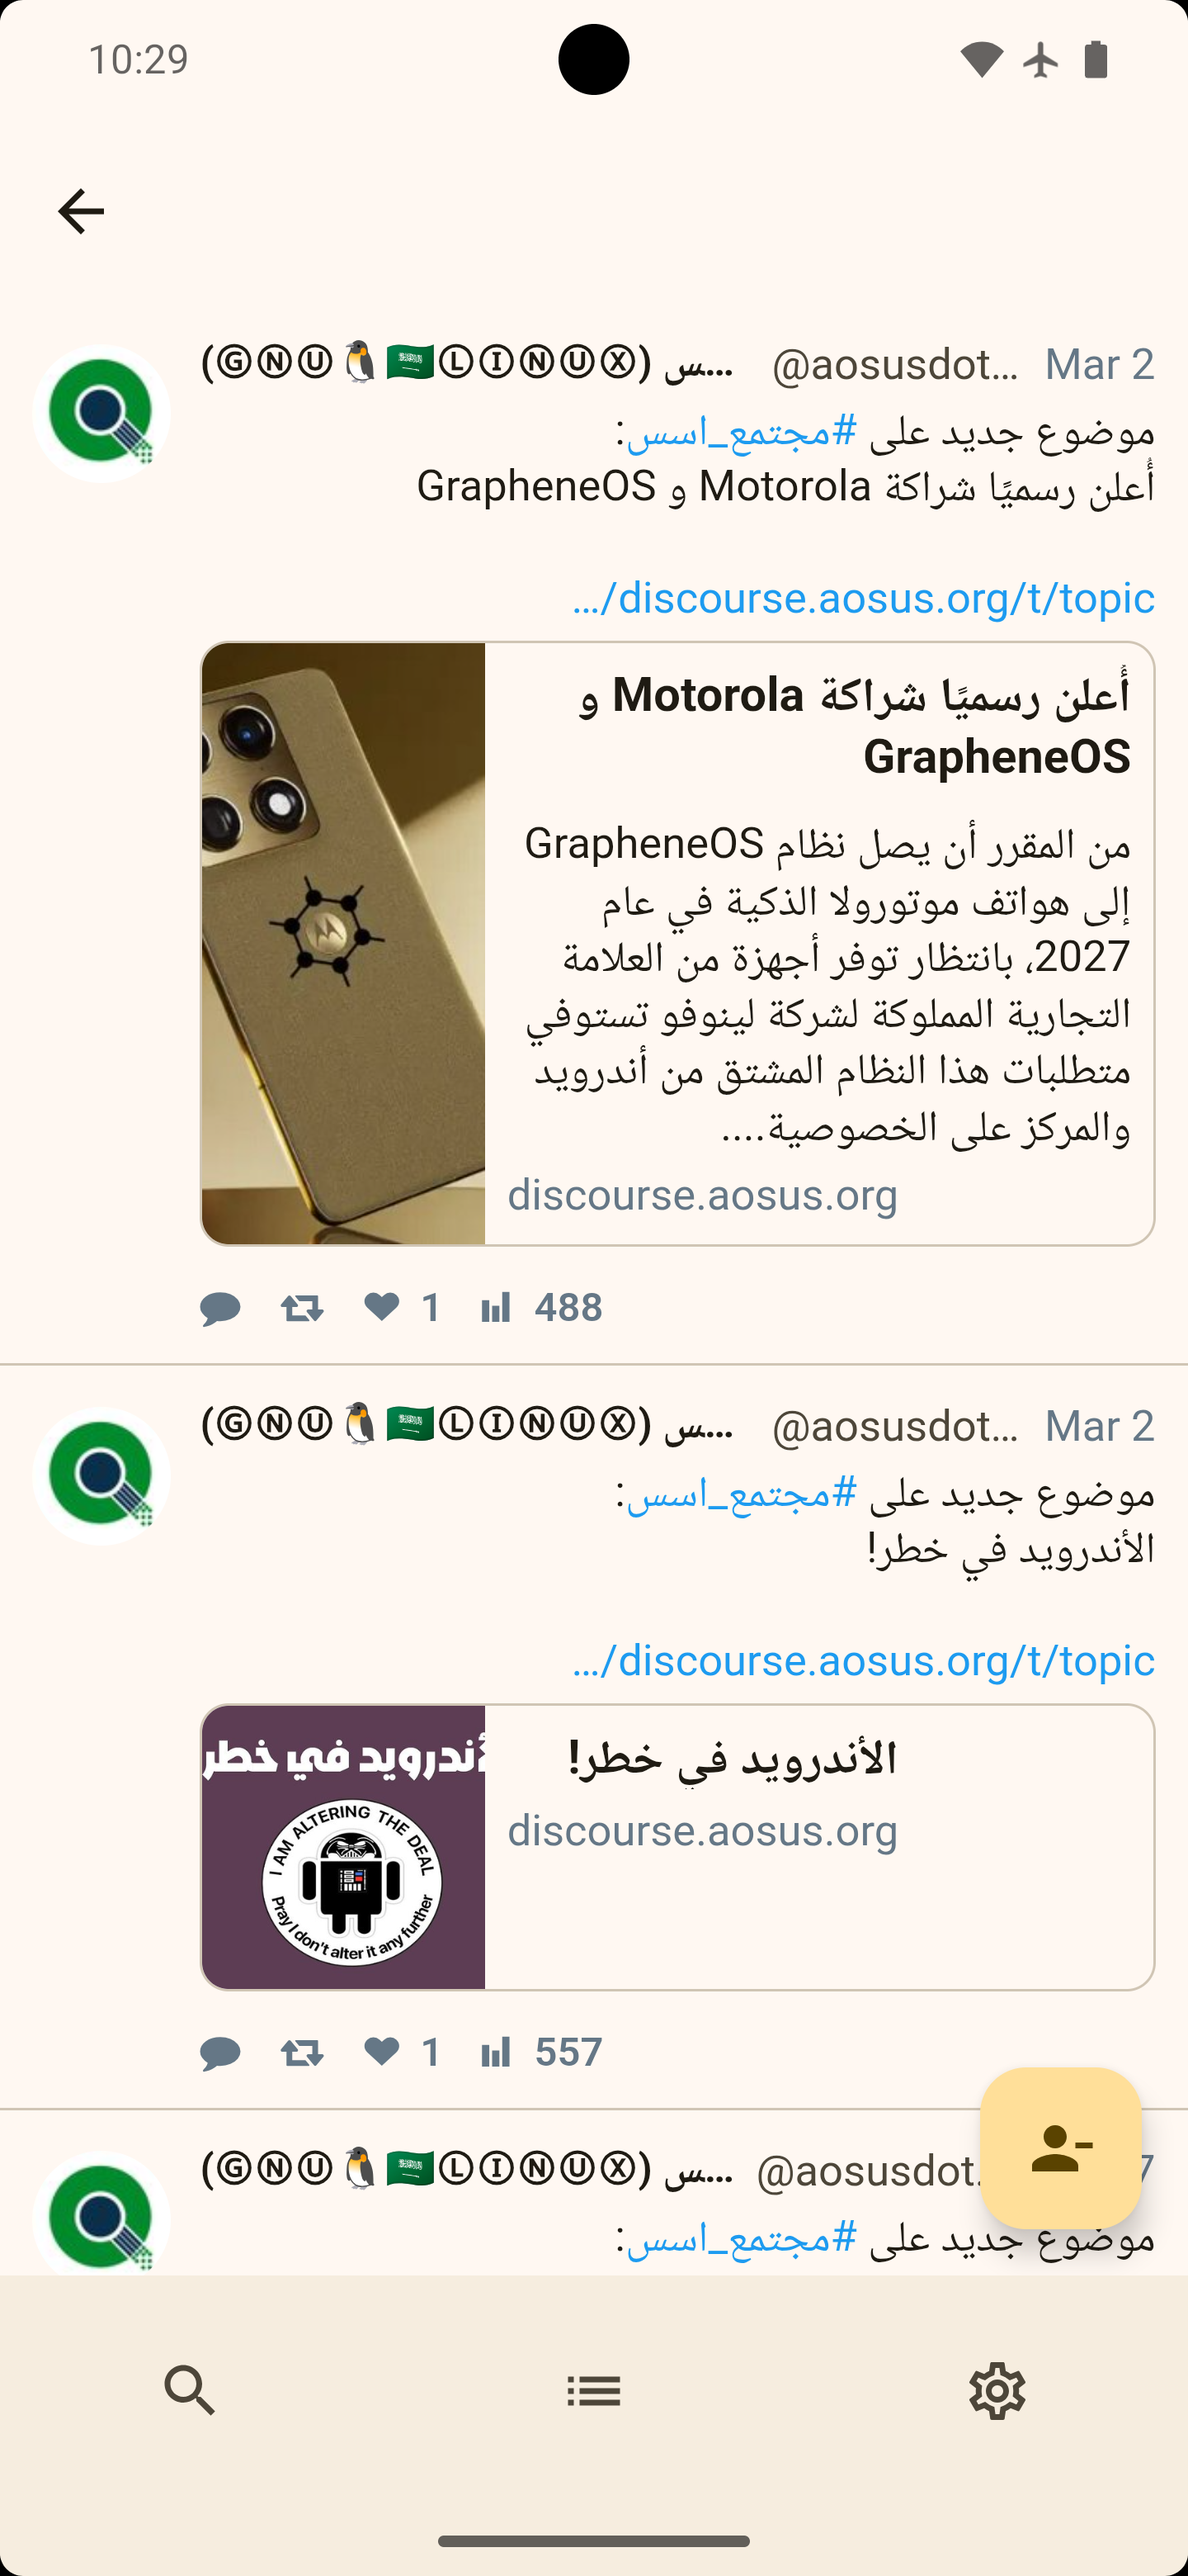
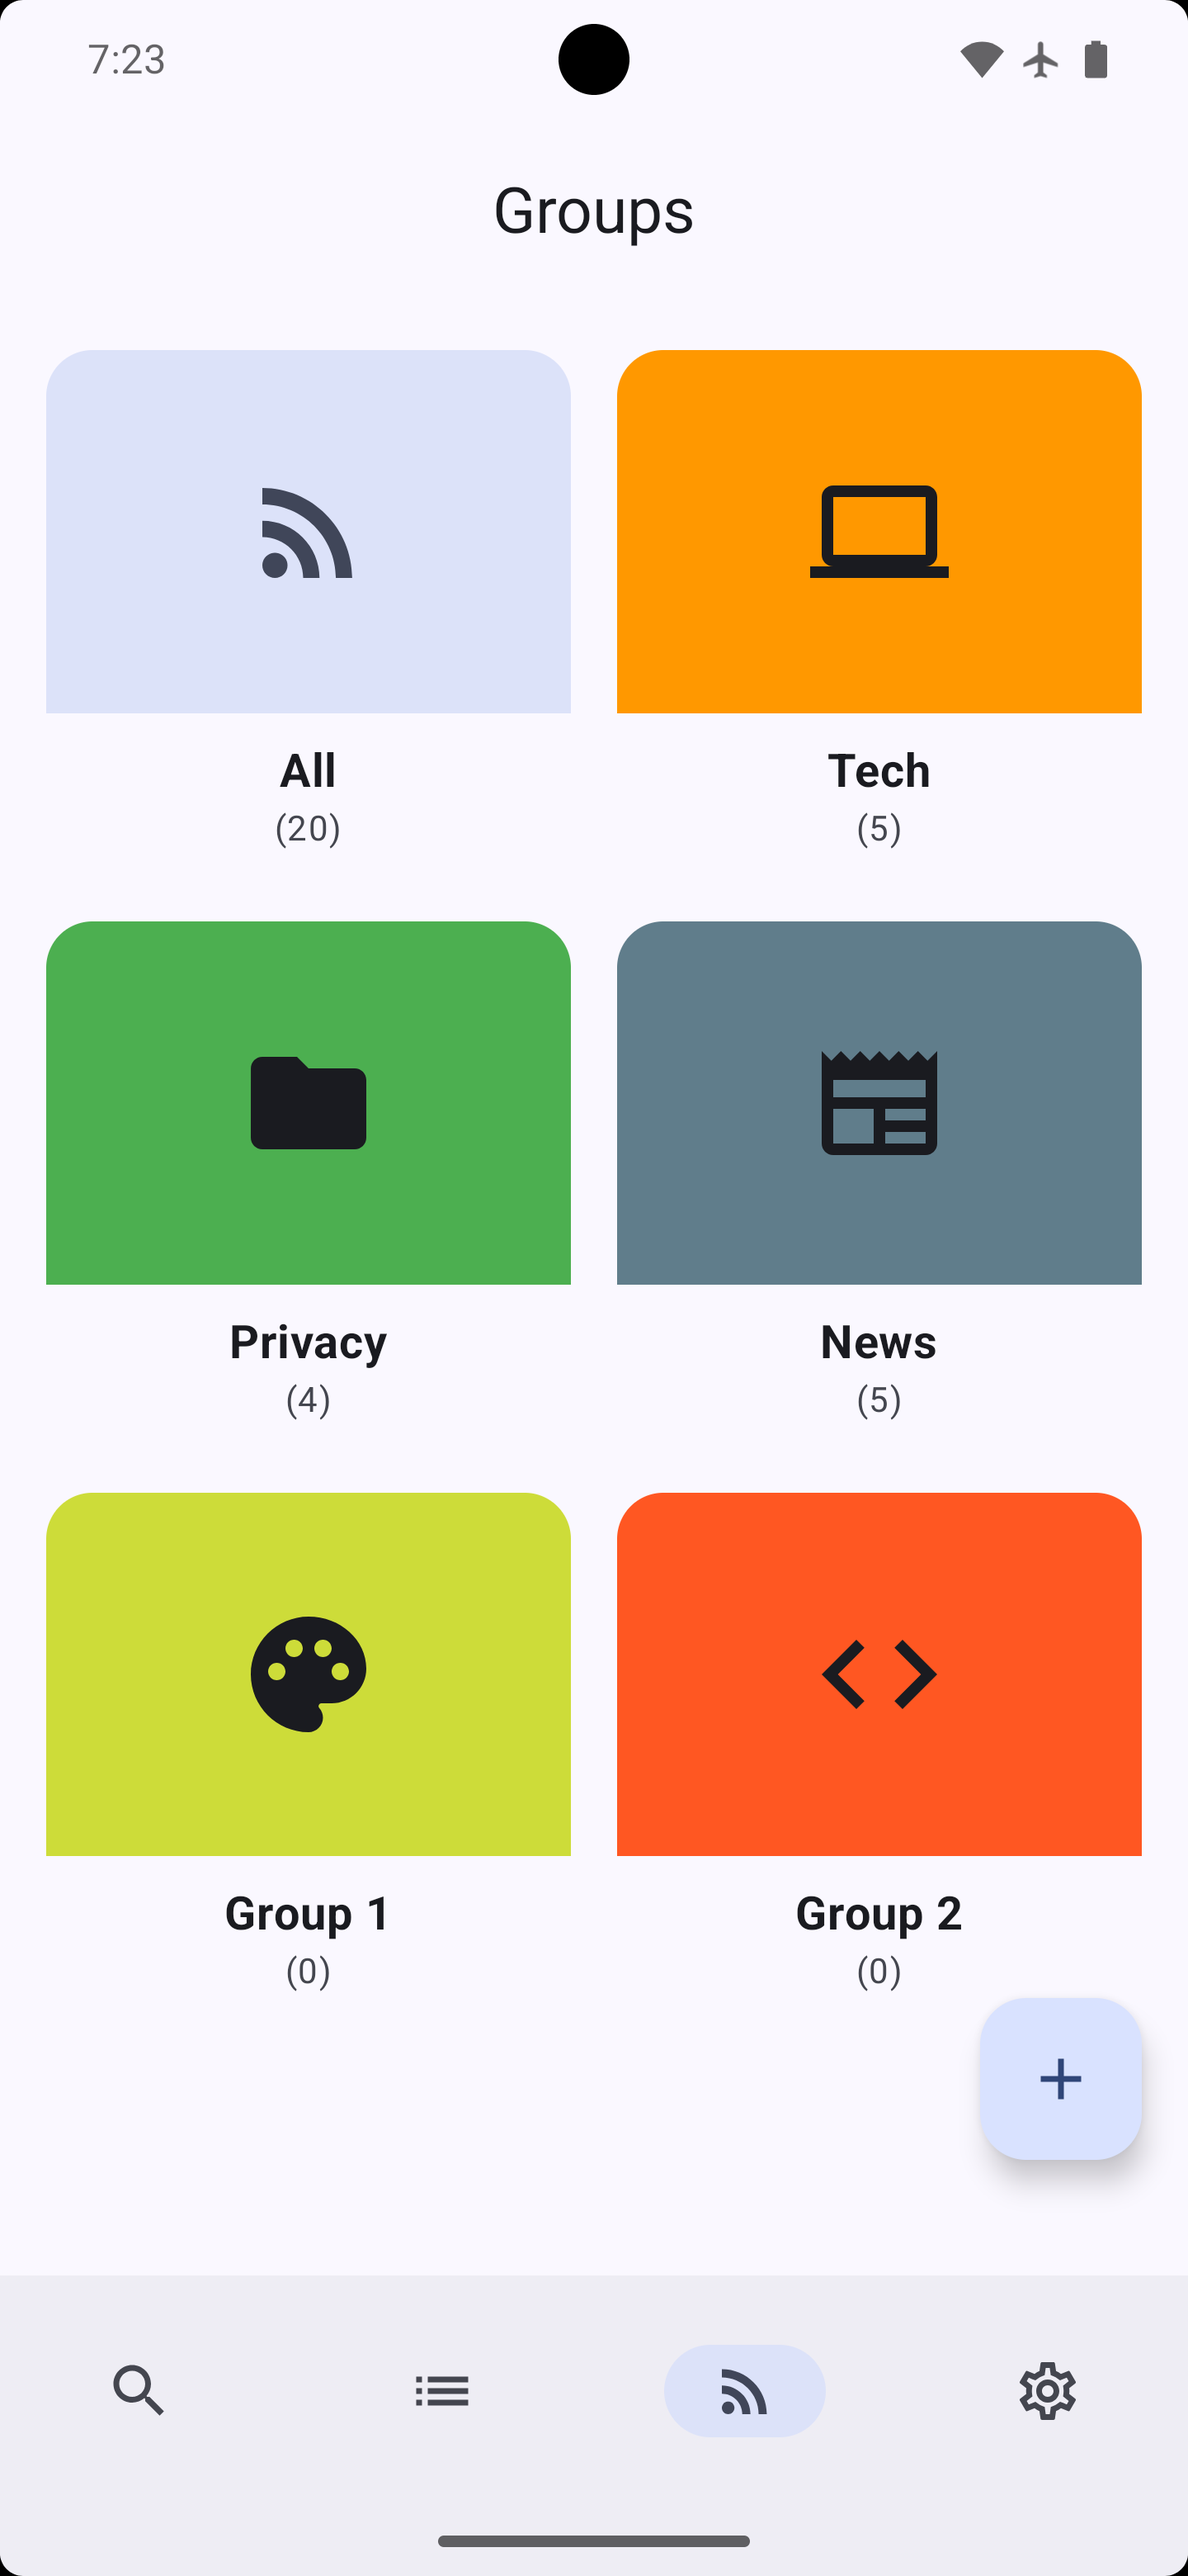
chore: prepare release 1.5.0 and update documentation

diff --git a/README.md b/README.md
@@ -33,6 +33,8 @@ While browsing Nitter on Android, I needed a way to subscribe to accounts I was 
 * 🔒 **Privacy First**: No ads, no tracking, and no Twitter/X account required.
 * 🕸 **Nitter Integration**: Browse seamlessly using your preferred Nitter instance via a custom WebView wrapper.
 * 📌 **Subscriptions**: Save and manage your favorite accounts locally on your device. Each account can be rearranged individually by dragging and dropping to suit your preferences!
+* 🗂 **Feed Groups**: Organize your subscriptions into customizable categories with distinct icons and colors, breaking past URL length limits and keeping your feeds organized.
+* 👆 **Long-Press & Sharing**: Easily share, copy, or open links, tweets, and media directly via intuitive long-press actions.
 * 🖼 **Intuitive Image Viewer**: Easily exit the image viewer by swiping up or down, and download images directly to your device.
 * 🔄 **Pull-to-Refresh**: Swipe down to reload content seamlessly.
 * 🎨 **Dynamic Theming**: Beautiful Material 3 design that automatically adapts to your system theme and wallpaper (Android 12+).
